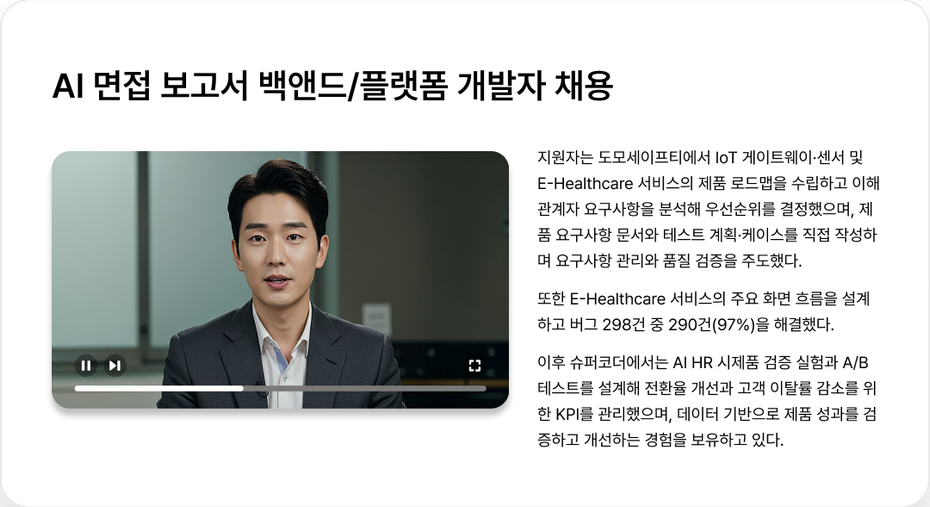
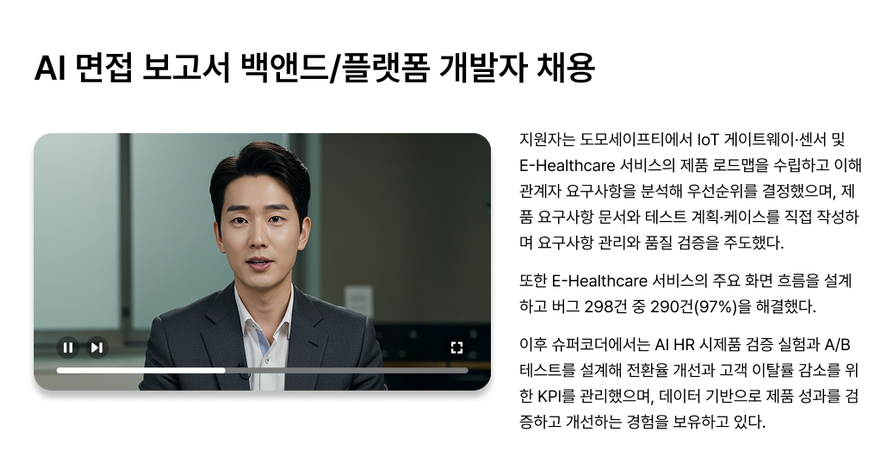
리포트 이미지 테두리선 제거(안쪽 크롭)+치수 갱신, 리포트 행 간격 확대(64→96)

Changed region(s): [[0.0302, 0.2675, 0.9664, 0.9214], [0.0302, 0.0892, 0.6644, 0.2081], [0.9966, 0.0594, 1.0, 0.9512]]

diff --git a/app/page.tsx b/app/page.tsx
@@ -198,7 +198,7 @@ export default function HomePage() {
 
           <div className="how-rows">
             <div className="how-row">
-              <div className="hr-media"><img className="hr-img" src="/report-interview-summary.png" alt="AI면접 리포트 — 인터뷰 내용 요약과 인터뷰 비디오" width={930} height={507} loading="lazy" /></div>
+              <div className="hr-media"><img className="hr-img" src="/report-interview-summary.png" alt="AI면접 리포트 — 인터뷰 내용 요약과 인터뷰 비디오" width={894} height={471} loading="lazy" /></div>
               <div className="hr-info">
                 <span className="hr-eyebrow">리포트 01</span>
                 <h3>인터뷰 요약</h3>
@@ -221,10 +221,10 @@ export default function HomePage() {
                   <li>후보 간 객관적 비교</li>
                 </ul>
               </div>
-              <div className="hr-media"><img className="hr-img" src="/report-overall-grade.png" alt="AI면접 리포트 — 종합 등급(양호)과 종합 평가" width={930} height={413} loading="lazy" /></div>
+              <div className="hr-media"><img className="hr-img" src="/report-overall-grade.png" alt="AI면접 리포트 — 종합 등급(양호)과 종합 평가" width={902} height={385} loading="lazy" /></div>
             </div>
             <div className="how-row">
-              <div className="hr-media"><img className="hr-img" src="/report-competency.png" alt="AI면접 리포트 — 역량 평가 레이더 차트와 항목별 등급" width={1080} height={740} loading="lazy" /></div>
+              <div className="hr-media"><img className="hr-img" src="/report-competency.png" alt="AI면접 리포트 — 역량 평가 레이더 차트와 항목별 등급" width={1028} height={688} loading="lazy" /></div>
               <div className="hr-info">
                 <span className="hr-eyebrow">리포트 03</span>
                 <h3>역량평가</h3>
@@ -247,7 +247,7 @@ export default function HomePage() {
                   <li>합류 후 온보딩에도 활용</li>
                 </ul>
               </div>
-              <div className="hr-media"><img className="hr-img" src="/report-strength.png" alt="AI면접 리포트 — 강점·약점 분석" width={1080} height={740} loading="lazy" /></div>
+              <div className="hr-media"><img className="hr-img" src="/report-strength.png" alt="AI면접 리포트 — 강점·약점 분석" width={1028} height={688} loading="lazy" /></div>
             </div>
           </div>
 

diff --git a/app/landing.css b/app/landing.css
@@ -189,7 +189,7 @@
   .demo-video .vcap{position:absolute;left:22px;bottom:20px;color:#fff;font-weight:700;font-size:14px;display:flex;align-items:center;gap:8px;text-shadow:0 1px 8px rgba(0,0,0,.5)}
   .demo-video .vtime{position:absolute;right:20px;bottom:20px;background:rgba(0,0,0,.45);color:#fff;font-size:12px;font-weight:700;padding:4px 11px;border-radius:999px}
   /* 리포트 디테일: 텍스트 + 이미지 박스 좌우 교차 3행 */
-  .how-rows{max-width:1140px;margin:60px auto 8px;display:grid;gap:clamp(36px,4vw,64px)}
+  .how-rows{max-width:1140px;margin:60px auto 8px;display:grid;gap:clamp(56px,6vw,96px)}
   /* 이미지 측 비중↑(더 크게), 행 간격·중앙정렬 */
   .how-row{display:grid;grid-template-columns:minmax(0,1.12fr) minmax(0,0.88fr);gap:clamp(28px,4vw,72px);align-items:center}
   .hr-info{text-align:left}
